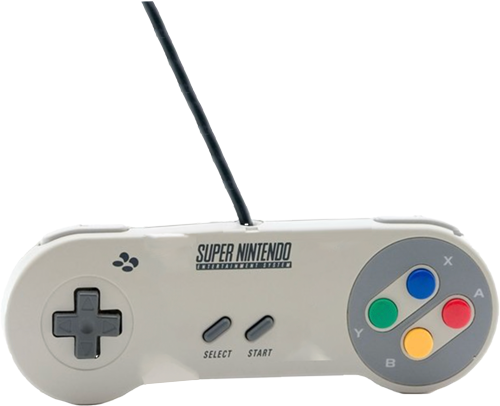
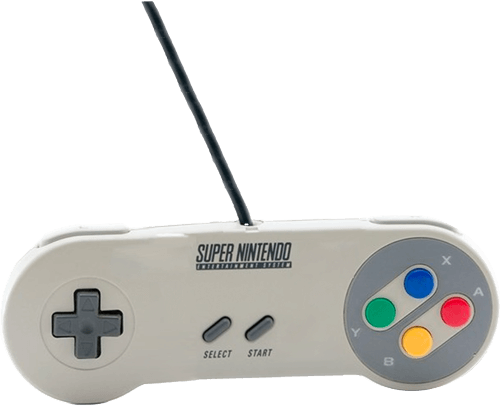
snes controller bits

diff --git a/js/main.js b/js/main.js
@@ -549,7 +549,9 @@ function unBindButtons_gamePlay(){
             btnWheelie.removeEventListener("touchend", mobileBtnReleased);
 
             
-    // bind the mobile buttons to do nothing! (except down as that is in use)
+            mobilePause.removeEventListener("touchstart", gamePause);
+
+    // bind the mobile buttons to do nothing! 
             btnsMove.addEventListener("touchstart", mobileBtnDoNothing);
             btnsMove.addEventListener("touchend", mobileBtnDoNothing);
 
@@ -1839,6 +1841,9 @@ function fgTimeLineComplete() {
 function playEnding(){
     endingPlayed=true;
 
+    unBindButtons_gamePlay();
+    unBindButtons_gameResume();
+
     
     // play ending!!
     gsap.killTweensOf(detectCollision);
@@ -1931,9 +1936,6 @@ function tlEndingComplete(){
     });
 
     
-
-    unBindButtons_gamePlay();
-    unBindButtons_gameResume();
 
     document.getElementById('initialstxt').addEventListener('keypress',highScoreEntered);
 

diff --git a/styles/styles.css b/styles/styles.css
@@ -30,7 +30,7 @@ body{
     overflow: hidden;
 }
 #controller{
-    width: 1140px;
+    width: 1145px;
     height: 890px;
     position: absolute;
     top: 50%;
@@ -38,8 +38,8 @@ body{
     transform: translate(-50%, -50%);
     display: none;
     background-image: url(../images/snes-controller.png);
-    background-size: 1140px 890px;
-    background-position: -116px -320px;
+    background-size: 1145px 890px;
+    background-position: -115px -316px;
     max-width: 970px;
     max-height: 475px;
 }
